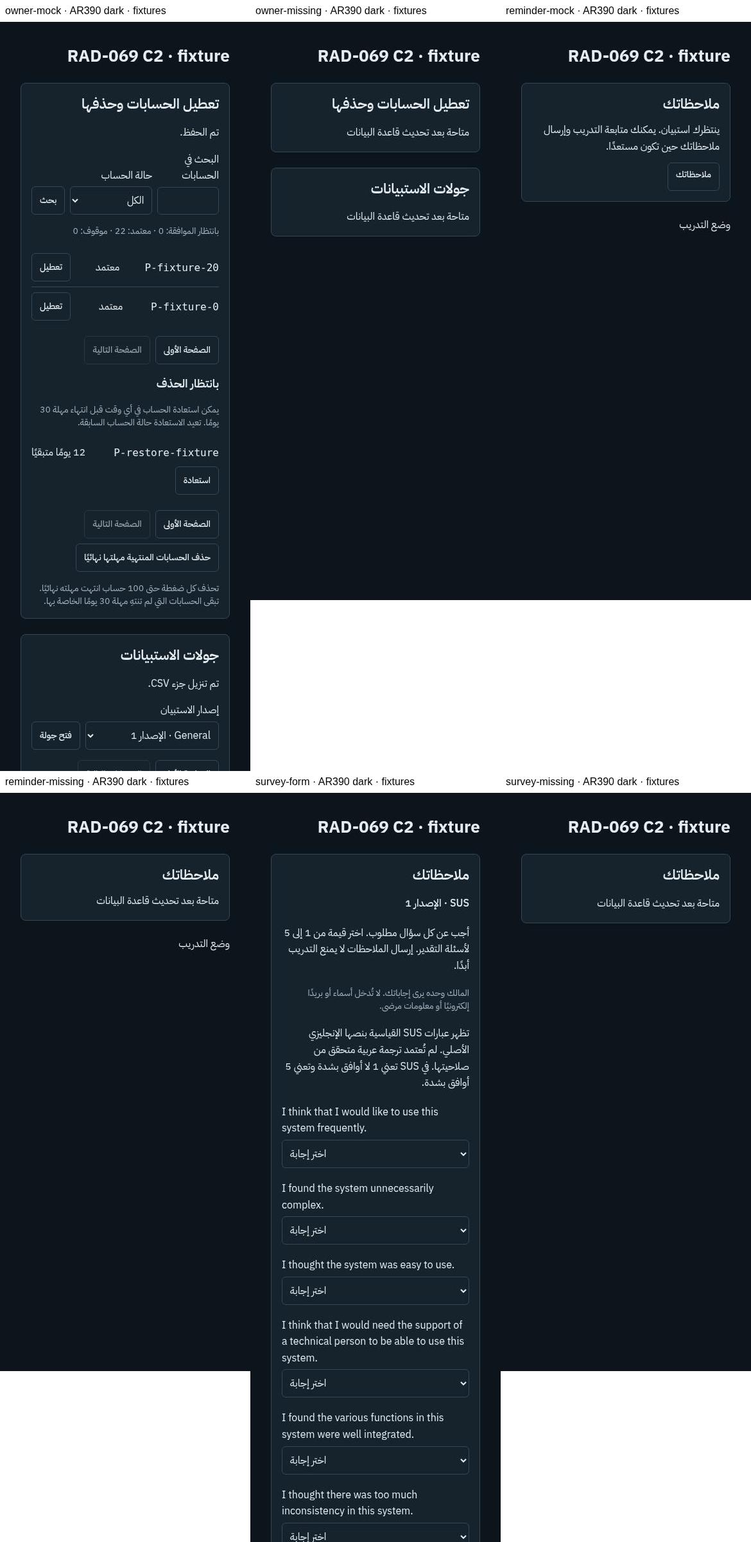
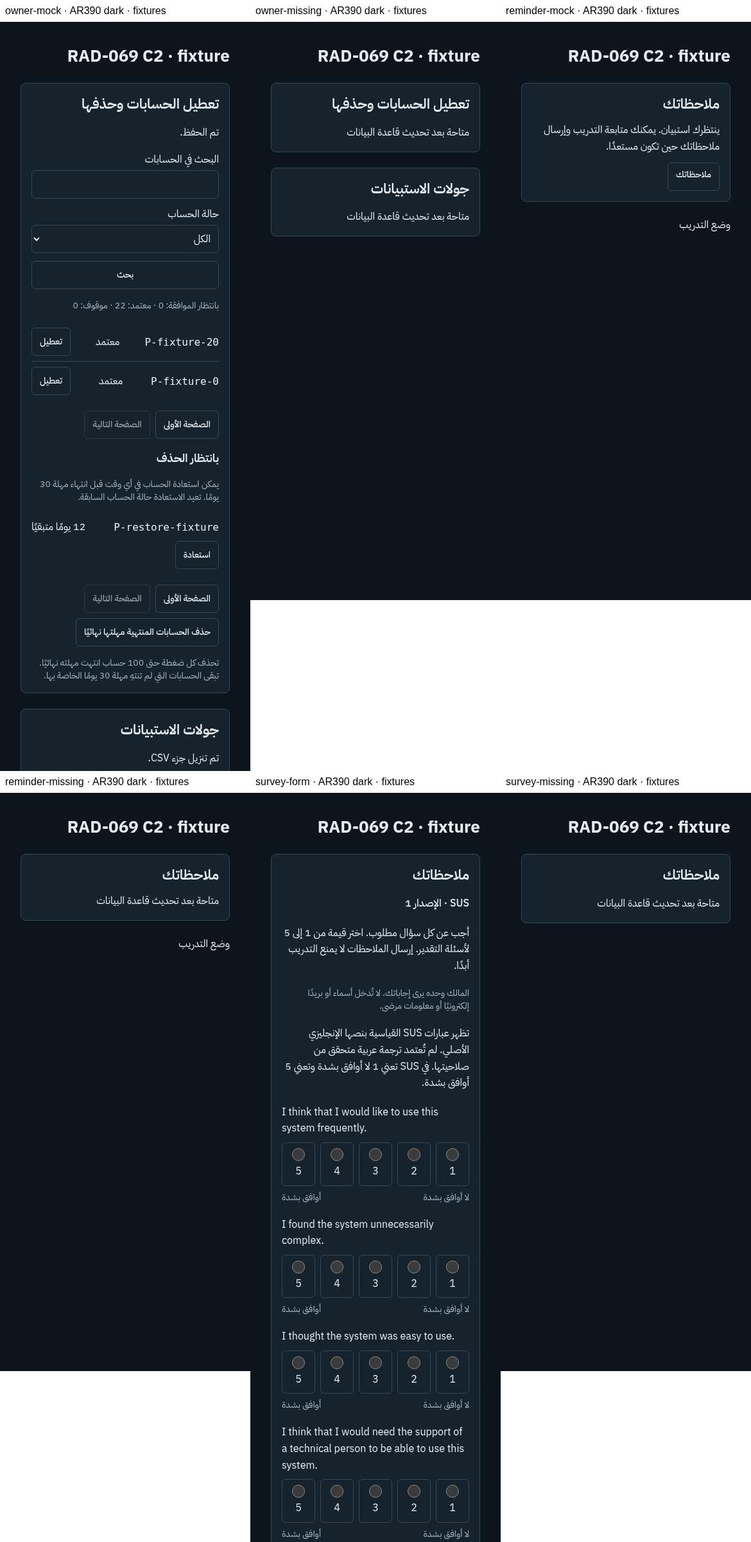
ui(pilot): polish deferred C2 search and survey radios (RAD-076 item 3)

diff --git a/src/features/pilot/ParticipantSurvey.tsx b/src/features/pilot/ParticipantSurvey.tsx
@@ -41,9 +41,21 @@ function SurveyForm({adapter,pending}:{adapter:C2Adapter;pending:Pending}) {
   {pending.definition.questions.map(q=>{
    const general=pending.survey_type==='General'&&pending.version===1&&['rating','liked','improve','bug'].includes(q.id);
    const label=general?t(`general.${q.id}`):q.label;
-   return <div key={q.id} lang={general?locale:pending.definition.locale} dir={general?(locale==='ar'?'rtl':'ltr'):english?'ltr':'auto'}>
+   const language=general?locale:pending.definition.locale;
+   const direction=general?(locale==='ar'?'rtl':'ltr'):english?'ltr':'auto';
+   if(q.kind==='rating')return <fieldset key={q.id} disabled={busy} lang={locale} dir={locale==='ar'?'rtl':'ltr'} className="min-w-0 space-y-2">
+    <legend className="mb-2 block w-full" lang={language} dir={direction}>{label}{q.optional?` (${t('optional')})`:''}</legend>
+    <div className="grid grid-cols-5 gap-2">
+     {[1,2,3,4,5].map(n=><label key={n} className="flex min-h-14 min-w-0 cursor-pointer flex-col items-center justify-center gap-1 rounded-md border border-line p-2 has-checked:border-signal has-checked:bg-paper focus-within:outline-2 focus-within:outline-offset-2 focus-within:outline-signal">
+      <input type="radio" name={`c2-q-${q.id}`} value={n} required={!q.optional} checked={answers[q.id]===n} aria-label={t(`scale.${n}`)} className="size-5 accent-signal" onChange={()=>setAnswers(a=>({...a,[q.id]:n}))}/>
+      <span aria-hidden="true">{n}</span>
+     </label>)}
+    </div>
+    <div className="flex justify-between gap-4 text-sm text-muted" data-testid="c2-scale-endpoints"><span className="max-w-[45%]">{t('scaleStart')}</span><span className="max-w-[45%]">{t('scaleEnd')}</span></div>
+   </fieldset>;
+   return <div key={q.id} lang={language} dir={direction}>
     <label className="block" htmlFor={`c2-q-${q.id}`}>{label}{q.optional?` (${t('optional')})`:''}</label>
-    {q.kind==='rating'?<select id={`c2-q-${q.id}`} required={!q.optional} className={c2Field} value={answers[q.id]??''} disabled={busy} onChange={e=>setAnswers(a=>{const next={...a};if(e.target.value)next[q.id]=Number(e.target.value);else delete next[q.id];return next;})}><option value="">{t('choose')}</option>{[1,2,3,4,5].map(n=><option key={n} value={n}>{t(pending.definition.scoring==='sus'?`scale.${n}`:`rating.${n}`)}</option>)}</select>:<textarea id={`c2-q-${q.id}`} required={!q.optional} maxLength={1000} rows={3} dir="auto" className={c2Field} value={answers[q.id]??''} disabled={busy} onChange={e=>setAnswers(a=>({...a,[q.id]:e.target.value}))}/>}
+    <textarea id={`c2-q-${q.id}`} required={!q.optional} maxLength={1000} rows={3} dir="auto" className={c2Field} value={answers[q.id]??''} disabled={busy} onChange={e=>setAnswers(a=>({...a,[q.id]:e.target.value}))}/>
    </div>;
   })}
   {pending.definition.citation&&<p lang="en" dir="ltr" className="break-words text-sm text-muted">{pending.definition.citation}</p>}

diff --git a/src/features/pilot/OwnerDeletion.tsx b/src/features/pilot/OwnerDeletion.tsx
@@ -31,9 +31,9 @@ export function OwnerDeletion({adapter,ownerId,onChanged}:{adapter:C2Adapter;own
   {(!data||unavailable||error)&&<p role={error?'alert':'status'}>{t(!data?'loading':unavailable?'unavailable':'error')}</p>}
   {notice&&<p role={notice==='error'?'alert':'status'}>{t(notice)}</p>}
   {!unavailable&&!error&&directory&&pending&&<>
-   <form className="flex flex-wrap items-end gap-2" onSubmit={e=>{e.preventDefault();setSearch(draft.trim());setPosition(C2_FIRST);setConfirm(null);setAgreed(false);}}>
-    <label className="min-w-0 flex-1">{t('search')}<input maxLength={100} className={c2Field} value={draft} onChange={e=>setDraft(e.target.value)}/></label>
-    <label>{t('status')}<select className={c2Field} value={status} onChange={e=>{setStatus(e.target.value);setPosition(C2_FIRST);setConfirm(null);setAgreed(false);}}><option value="">{t('all')}</option>{(['pending','approved','suspended'] as const).map(s=><option key={s} value={s}>{t(s)}</option>)}</select></label>
+   <form className="grid gap-3 sm:grid-cols-[minmax(0,1fr)_minmax(0,1fr)_auto] sm:items-end" onSubmit={e=>{e.preventDefault();setSearch(draft.trim());setPosition(C2_FIRST);setConfirm(null);setAgreed(false);}}>
+    <label className="block min-w-0">{t('search')}<input maxLength={100} className={c2Field} value={draft} onChange={e=>setDraft(e.target.value)}/></label>
+    <label className="block min-w-0">{t('status')}<select className={c2Field} value={status} onChange={e=>{setStatus(e.target.value);setPosition(C2_FIRST);setConfirm(null);setAgreed(false);}}><option value="">{t('all')}</option>{(['pending','approved','suspended'] as const).map(s=><option key={s} value={s}>{t(s)}</option>)}</select></label>
     <button className={btn} disabled={busy}>{t('searchAction')}</button>
    </form>
    <p className="text-sm text-muted">{(['pending','approved','suspended'] as const).map(s=>`${t(s)}: ${directory.counts[s]}`).join(' · ')}</p>

diff --git a/docs/RAD-076_REPORT_2026-10-24.md b/docs/RAD-076_REPORT_2026-10-24.md
@@ -2,17 +2,17 @@
 
 ## 1 الانحرافات والميزانية
 
-الهدف: تنظيف محدود للاختبار وهندسة المكتبة وواجهة C2 غير الموصولة. الميزانية الدقيقة 12 ملفًا: اختبار F؛ اختبار حوض جديد؛ OwnerDeletion وParticipantSurvey؛ رسائل EN/AR؛ سكربت تدقيق C2؛ JPEG المراجعة؛ DECISIONS؛ project-status؛ HANDOFF؛ هذا التقرير. لا تغيير لوحدة runtime مشتركة. وافق المالك على استثناء تدقيق C2 المحدد وعلى تثبيت فروق الحوض المقصودة؛ لا توسيع لبقية التوقعات.
+الهدف: تنظيف محدود للاختبار وهندسة المكتبة وواجهة C2 غير الموصولة. الميزانية الدقيقة 12 ملفًا: اختبار F؛ اختبار حوض جديد؛ OwnerDeletion وParticipantSurvey؛ رسائل EN/AR؛ سكربت تدقيق C2؛ JPEG المراجعة؛ DECISIONS؛ project-status؛ HANDOFF؛ هذا التقرير. الملفات بالضبط: `src/features/assess/f-service-check.test.ts`، `src/features/platform/pelvis-geometry-drift.test.ts`، `src/features/pilot/OwnerDeletion.tsx`، `src/features/pilot/ParticipantSurvey.tsx`، `messages/en.json`، `messages/ar.json`، `scripts/qa/rad-069c2-audit.mjs`، `docs/review/rad069c2-ui.jpg`، `docs/DECISIONS.md`، `docs/project-status.md`، `docs/HANDOFF.md`، وهذا التقرير. لا تغيير لوحدة runtime مشتركة. وافق المالك على استثناء تدقيق C2 المحدد وعلى تثبيت فروق الحوض المقصودة؛ لا توسيع لبقية التوقعات.
 
 ## 2 المنجز والمتروك
 
-جارٍ التنفيذ على ثلاث دفعات مستقلة. المشاهد والصور والثيم والتقييم وSQL والمخطط والشهادة خارج النطاق.
+نُفذت ثلاث دفعات مستقلة: تثبيت اختبار F، وحارس هندسة الحوض، وصقل C2. المشاهد والصور والثيم والتقييم وSQL والمخطط والشهادة خارج النطاق.
 
 ## 3 بحسب المهمة
 
 - البند1: مصدر التصادم `at` في مخرجات PASS وSTOP، السطران99 و103 من سكربت F. إعادة إثبات بساعة `2026-10-24T12:00:01.250Z` أخرجت STOP يحوي `1.25` داخل الطابع الزمني. الحل حقن Date ثابتة في VM الاختبار مع بقاء تحليل التواريخ الصريحة. كل التوقعات والعينات كما هي؛ استثناء sentinel غير مستخدم.
 - البند2: wingR وsacrum متطابقان؛ ringR والفخذ يتضمنان فروق B2b المعتمدة. يحرس الاختبار المشترك والانعكاس ويثبت قائمتي الفخذ وكل نقاط الحلقة على الجانبين دون تعديلهما.
-- البند3: تجهيز radio groups وتحسين البحث وتحديث التدقيق وفق الإذن المحدد؛ لا وصل حي.
+- البند3: استبدلت select بـfieldset/legend وخمس radios أصلية لكل سؤال، بأهداف لمس ≥44px في صف واحد وأسهم لوحة المفاتيح وطرفَي Strongly disagree/Strongly agree بالعربية والإنجليزية. حقول البحث مكدسة عند390 وبصف عند العرض الكبير. نصوص SUS الإنجليزية الأصلية باقية؛ في AR ترتيب controls من اليمين إلى اليسار. عقد submit وقيم الأجوبة كما هي؛ لا وصل حي.
 
 ## 4 المشترك وScale
 
@@ -27,12 +27,39 @@
 - docs:context أكد دمج #127 و#128؛ بدأ الفرع من origin/main بعد fetch. status:summary لم يجد RAD-076، فأضيفت in_progress.
 - فحص graphics --check قبل التعديل: مطابق بايتًا.
 - البند1: typecheck ناجح؛ lint بلا أخطاء مع تحذيرين سابقين في simulator-layout-audit.mjs. اختبار F نجح20/20 تشغيلًا متتاليًا (24 اختبارًا في كل تشغيل، 480/480) دون retries أو skips أو تعديل timeout. سبقها فشل typecheck بسبب dependencies ناقصة، ثم npm ci من lockfile بلا تغيير ملفات dependency.
-- البند2: اختبارا الحارس ناجحان، مع اختبارات رسومات المكتبة القائمة؛ graphics --check مطابق بايتًا. يقرأ الحارس AST للمصدرين ولا يغيرهما.
-- بقية نتائج QA تُستكمل عند انتهاء دفعتها؛ لا نجاح CI أو نشر أو فحص هاتف مفترض.
+- البند2: اختبارا الحارس ناجحان، مع اختبارات رسومات المكتبة القائمة؛ graphics --check مطابق بايتًا. يقرأ الحارس AST للمصدرين ولا يغيرهما. أول تشغيل للحارس كشف التقاط مصفوفة callback أيضًا؛ قُصر القارئ على مصفوفات النقاط المتداخلة ثم نجح، دون تعديل توقع قديم.
+- البند3: `node scripts/qa/rad-069c2-audit.mjs` نجح:1356 فحصًا و73 تدقيق axe بلا violations. مصفوفة EN/AR ×390/1440 ×dark/light ×missing/mock باقية؛ أضيفت General في الأبعاد الثمانية مع حالات الإرسال القديمة. قواعد wcag2a/wcag2aa/wcag21a/wcag21aa كما هي.
+- قبل تحرير controls شُغل harness بالـselect الأصلية والتُقطت JSON للـSUS وGeneral في EN وAR محليًا؛ استُخدمت السلاسل الأصلية حرفيًا للمقارنة دون ترتيب أو normalization. SUS: q1…q10 بقيمة4؛ General: rating=4 ونص Fixture feedback only في liked/improve/bug؛ ترتيب المفاتيح والأنواع وid كما هي.
+- لوحة [المراجعة](review/rad069c2-ui.jpg) استُبدلت وفُحصت بصريًا:170018 بايتًا، وهي مجموع صور هذه الدفعة، دون5MB. الصور الكاملة محلية فقط؛ ليست فحص هاتف أو نشرًا.
+- docs:check مع base origin/main: ناجح بلا أخطاء أو review warnings؛ status:check مع base origin/main وrequire-previous: ناجح. HANDOFF22 سطرًا. رُفع وقت الحالة عن الوقت المستقبلي الموجود أصلًا في main للحفاظ على التسلسل، دون تغيير المهام الأخرى.
[1 lines of base64/hex data omitted]
+- في النهاية شُغّل `npm run check` كاملًا مرة واحدة:179 ملفًا و2691 اختبارًا ناجحًا، مع typecheck ناجح وlint بلا أخطاء (التحذيران السابقان فقط). `npm run build` ناجح مرة واحدة. لم تُشغّل qa:golden أو qa:characterise أو أي أمر لتحديث fixtures؛ لا نجاح CI مفترض.
+- قبل كل push أُعيد typecheck وlint والاختبارات ذات الصلة؛ الدفعة الأخيرة يغطيها check الكامل. كل بند في commit وpush مستقلين؛ التسليم Draft فقط. `git diff --check` ناجح.
+
+### تغييرات التدقيق: القديم → الجديد
+
+| الموضع | القديم → الجديد |
+|---|---|
+| تعبئة SUS | `form select` ثم selectOption('4') ← اختيار radio بقيمة4 داخل كل fieldset، بالقيم نفسها وبترتيب الأسئلة نفسه |
+| نصوص SUS | `form label` ← `form fieldset legend`؛ نفس شرط الطول10 ونفس المساواة الحرفية مع sus.questions[i].label ونفس ترتيبها، بلا تخفيف |
+| تعبئة General | select بقيمة4 مع textarea ← radio بقيمة4 مع نفس تعبئة textarea؛ أضيف تحقق legend مطابق لـgeneral.rating حرفيًا |
+
+الفحوص الجديدة فقط، دون حذف أي فحص آخر:
+
+1. fieldset لكل rating:10 لـSUS و1 لـGeneral؛ legend واحدة لكل fieldset وخمس radios.
+2. name واحدة غير فارغة لكل مجموعة ومختلفة بين الأسئلة؛ values هي1…5 وrequired محفوظة.
+3. نصا الطرفين مطابقان لرسائل EN/AR؛ اتجاه المجموعة مطابق للغة وموقع الطرفين يتبع ترتيب السلم.
+4. أهداف اللمس ≥44×44px في صف واحد؛ x تصاعدية في EN وتنازلية في AR.
+5. ArrowDown يحدد وينقل التركيز للخيار التالي وArrowUp يعيده؛ ثم اختيار4.
+6. JSON المرسل مطابق بايتًا للـbaseline في SUS وGeneral؛ فحص response-id-bound السابق لم يتغير.
+7. حقلا البحث لهما labelان، وكل label على سطر واحد في كل أبعاد التدقيق.
+8. General في EN/AR ×390/1440 ×dark/light مع axe والقيم ونفي أخطاء الصفحة والشبكة؛ حالات missing/mock الأصلية وكل فحوصها باقية.
+
+مقارنة نصية مع origin/main أثبتت بقاء الأسطر23 التي تحمل assertions الأصلية حرفيًا؛ التبديل المأذون للـselector وعملية التعبئة فقط. لا تغيير لأي assertion آخر أو axe rule أو حجم صفحات أو حالات رفض أو CSV أو منع retry/network. الـsentinel وقائمة not.toContain كما هما.
 
 ## 7 المفتوح
 
-تنتظر RAD-076 إكمال الدفعات والتحقق ثم مراجعة المسودة. C2 غير موصولة؛ DB day ومراجعة الهاتف بيد المالك ضمن مهامها السابقة، ولا تنفيذ لها هنا.
+RAD-076 review بانتظار مراجعة المالك؛ لا done قبل دمج العمل وتحققه المناسب. C2 غير موصولة؛ DB day ومراجعة الهاتف بيد المالك ضمن مهامها السابقة، ولا تنفيذ لها هنا.
 
 ## 8 قائمة المالك والمتابعة
 

diff --git a/docs/HANDOFF.md b/docs/HANDOFF.md
@@ -1,22 +1,22 @@
-# التسليم الحالي — RAD-069 C2، تجهيز المرحلة2
+# التسليم الحالي — RAD-076 housekeeping A
 
 ## نقطة البداية
-اقرأ [AGENTS](../AGENTS.md)، ثم docs:context وstatus:summary -- --id RAD-069. [project-status](project-status.md) مصدر الحالة الوحيد؛ checkout نفسه، بلا worktree/subagents أو polling أو preview، وDraft PR فقط.
+اقرأ [AGENTS](../AGENTS.md)، ثم docs:context وstatus:summary -- --id RAD-076؛ [project-status](project-status.md) مصدر الحالة الوحيد. [التقرير](RAD-076_REPORT_2026-10-24.md) يحفظ التحقق وحدوده، و[القرار](DECISIONS.md#rad076-housekeeping-owner-2026-10-24) يحدد الاستثناءات.
 
 ## ملخص الحالة
-- **الاتجاه الحالي:** C1 وC2 Phase 1 مدموجتان؛ واجهات Phase 2 محقونة غير موصولة حاليًا، وفق [تصحيح المالك](DECISIONS.md#rad069c2-phase2-deferred-ui-2026-10-24) و[التقرير](RAD-069C2_PHASE2_REPORT_2026-10-24.md).
-- **ينتظر المالك:** مراجعة C2 وDB day المنسق؛ مراجعات الهاتف A/B/C1 باقية. RAD-044 مغلقة بإثباته السابق، فلا طلب بيانات. SUS العربية تحتاج citation منشورًا validated. Assess والمشرف خارج النطاق.
-- **ينتظر مراجِعًا:** لا مراجعة طبية جديدة؛ حدود RAD-019 وO108 والمصادر محفوظة. لا استئناف Assess إلا بأمر صريح مستقل بعد C2 وDB day.
-- **مرجع Git:** docs:context للحالة الراهنة؛ [التقرير §6](RAD-069C2_PHASE2_REPORT_2026-10-24.md#6-التحقق) للفحوص وحدودها، بلا نجاح CI أو نشر مفترض.
-- **مخاطر معلنة:** كل C2 غير mounted وRPC معزولة؛ الحارس وbrowserBoundaries وrequired والشهادة ثابتة. الحذف كامل بعد30يومًا عبر CASCADE وقد يُرفض ذريًا بقيود Assess. JWT السابق ينتهي بعمره والنسخ مستقلة. النص الحر قد يحمل هوية.
+- **الاتجاه الحالي:** تنظيف RAD-076 للمراجعة: ساعة اختبار F ثابتة، حارس هندسة الحوض وفروق B2b، وصقل C2 غير الموصولة. توقف بعد التسليم؛ لا عمل تالٍ مفوض تلقائيًا.
+- **ينتظر المالك:** مراجعة المسودة ولوحة C2؛ مراجعات الهاتف A/B/C1 باقية. C2 وDB day والموافقة والإطلاق ضمن [المسار السابق](PILOT_SUPABASE_SETUP.md#c2-phase2-wiring). SUS العربية تحتاج citation منشورًا validated؛ Assess يتطلب أمر resume Assess مستقلًا بعد C2 وDB day. RAD-044 مغلقة بتحققه السابق.
+- **ينتظر مراجِعًا:** لا مراجعة طبية جديدة؛ حدود RAD-019 وO108 والمصادر والتراخيص باقية في مهامها.
+- **مرجع Git:** docs:context لحالة الفرع والقاعدة وPR؛ [التقرير §6](RAD-076_REPORT_2026-10-24.md#6-التحقق) للتحقق المحلي وحدوده. لا نجاح CI أو نشر مفترض.
+- **مخاطر معلنة:** C2 محقونة فقط بلا وصل routes أو RPC حي؛ browserBoundaries والشهادة وSQL ثابتة. فروق الحوض المقصودة مثبتة على الجانبين وتحتاج مراجعة عند أي تغيير لاحق؛ لا تعديل للمشهد. JWT السابق ونسخ المزوّد وحدود CASCADE كما في قرار C2.
 
 ## الخطوة التالية والعوائق
-- توقف بعد تسليم تجهيز Phase 2؛ التالي مراجعة المالك ثم DB day مستقل. أدلة check/build وharness EN/AR والثيمين وحدودها في التقرير §6. لا صفحة feedback أو owner C2 حية الآن، ولا عمل برمجي جديد قبل توجيه المالك.
-- [خطوات الوصل الدقيقة](PILOT_SUPABASE_SETUP.md#c2-phase2-wiring) ليوم القاعدة فقط: C1 ثم C2، checks، required وحدود الوصل، شهادة جديدة واحدة، إطلاق consent/الشروط والمزايا معًا. لا SQL أو attestation أو consent bump الآن.
-- لا تغيير لحارس المخطط أو توقع اختبار قديم. كل الاستدعاءات الأربع في c2-contract المعزولة أصلًا، ولا حاجة لتوسيع serverModules.
+- مراجعة المالك فقط؛ لا ready أو merge أو auto-merge. لا subscribe/poll أو hosted preview؛ المالك يفحص الهاتف.
+- DB day ليس مفوضًا هنا: C1 ثم C2، checks كلها، إطلاق الموافقة والمزايا معًا، ثم required وشهادة واحدة جديدة وفق المسار الموثّق؛ لا SQL أو متغيرات أو consent bump الآن.
+- الاستثناء المحدد للتدقيق لا يجيز تغيير توقع آخر؛ sentinel بقي كما هو بعد إصلاح الساعة.
 
 <a id="المتابعة"></a>
 ## الحدود المستمرة
-- لا تغيير للتقييم أو المحاكي أو المشاهد أو الصور أو منطق الثيم أو الرسوم أو hashes أو golden/characterisation؛ لا qa:golden/qa:characterise.
-- القيم provisional؛ لا مصادقة سريرية. Shoulder Y/forearm والفحوص والصور الجديدة مجمدة.
+- لا scoring أو simulator أو scenes أو صور نتيجة أو theme logic أو scene/result hashes أو golden/characterisation؛ لا qa:golden/qa:characterise.
+- القيم provisional داخليًا؛ لا مصادقة سريرية. Shoulder Y/forearm والفحوص والصور الجديدة مجمدة.
 - RAD-072/RAD-075 مغلقتان؛ RAD-073 مستقلة؛ RAD-070/071 مؤجلتان وRAD-057 بعد RAD-062 وRAD-021 بعد التعميم.

diff --git a/docs/project-status.md b/docs/project-status.md
@@ -6,11 +6,11 @@
 
 ## ملخص الحالة الحالية (سرد قصير، يُحدَّث كله في كل جلسة؛ لا يُقرأ آلياً)
 
-- **الاتجاه الحالي:** RAD-076 تنظيف محدود جارٍ؛ C1 وC2 Phase 1 مدموجتان؛ تجهيز واجهات Phase 2 محقونة دون وصل حي، وفق [التصحيح](DECISIONS.md#rad069c2-phase2-deferred-ui-2026-10-24) و[التقرير](RAD-069C2_PHASE2_REPORT_2026-10-24.md).
-- **ينتظر المالك:** مراجعة واجهات C2 ثم DB day والموافقة والإطلاق؛ مراجعات الهاتف A/B/C1 باقية. RAD-044 مغلقة بإثباته. SUS العربية تحتاج citation منشورًا validated؛ Assess بإذن استئناف منفصل.
+- **الاتجاه الحالي:** RAD-076 منفذ للمراجعة: ثبات اختبار F وحارس هندسة الحوض وصقل C2 غير الموصولة، وفق [القرار](DECISIONS.md#rad076-housekeeping-owner-2026-10-24) و[التقرير](RAD-076_REPORT_2026-10-24.md).
+- **ينتظر المالك:** مراجعة مسودة RAD-076 وواجهات C2، ثم DB day والموافقة والإطلاق ضمن مسارها السابق؛ مراجعات الهاتف A/B/C1 باقية. RAD-044 مغلقة بإثباته. SUS العربية تحتاج citation منشورًا validated؛ Assess بإذن استئناف منفصل.
 - **ينتظر مراجِعًا بشريًا:** لا مراجعة طبية جديدة؛ حدود RAD-019 وO108 والمصادر والتراخيص محفوظة في مهامها.
-- **مرجع Git:** docs:context للحالة الراهنة؛ تقرير Phase 2 §6 للتحقق وحدوده، بلا نجاح CI أو نشر مفترض.
-- **مخاطر معلنة:** C1/C2 مؤجلتان، والحارس والشهادة وحدود الاتصال ثابتة؛ الحذف كامل عبر CASCADE بلا retention عام. JWT السابق ينتهي بعمره ونسخ المزوّد مستقلة؛ لا تغيير للتقييم أو الصور أو الثيم. القيم provisional.
+- **مرجع Git:** docs:context للحالة الراهنة؛ تقرير RAD-076 §6 للتحقق وحدوده، بلا نجاح CI أو نشر مفترض.
+- **مخاطر معلنة:** C1/C2 مؤجلتان، والحارس والشهادة وحدود الاتصال ثابتة؛ الحذف كامل عبر CASCADE بلا retention عام. JWT السابق ينتهي بعمره ونسخ المزوّد مستقلة؛ لا تغيير للتقييم أو الصور أو الثيم. فروق الحوض المقصودة مثبتة، والقيم provisional.
 
 ## البيانات الحالية (قابلة للقراءة الآلية)
 
@@ -19,8 +19,8 @@
 {
   "project": "RAD-LAB",
   "format_version": "1.1",
-  "revision": 272,
-  "updated_at": "2026-10-25T02:00:07+00:00",
+  "revision": 273,
+  "updated_at": "2026-10-25T02:00:08+00:00",
   "timezone": "UTC",
   "next_id": "RAD-077",
   "tasks": [
@@ -702,11 +702,11 @@
     {
       "id": "RAD-076",
       "title": "Housekeeping A: ثبات الاختبار وحارس هندسة الحوض وصقل C2",
-      "status": "in_progress",
+      "status": "review",
       "priority": "medium",
-      "description": "جارٍ تثبيت ساعة اختبار F، وإضافة حارس هندسة الحوض مع فروق B2b المقصودة، وصقل C2 غير الموصولة وتدقيقها؛ التسليم مسودة فقط.",
+      "description": "تنظيف RAD-076 منفذ للمراجعة: ساعة F ثابتة، حارس الحوض وفروق B2b مثبتة، وC2 غير الموصولة بصقل البحث وradio groups؛ ينتظر مراجعة المالك للمسودة، بلا وصل حي أو DB day.",
       "source_ref": "docs/RAD-076_REPORT_2026-10-24.md؛ طلب المالك وقراراته 2026-10-24",
-      "waiting_on": "code"
+      "waiting_on": "owner"
     }
   ]
 }

diff --git a/docs/DECISIONS.md b/docs/DECISIONS.md
@@ -672,3 +672,14 @@ Closed question texts and their scope/evidence are retained in the [closed-quest
 تُجهز المكونات بعقود وadapters محقونة، وتُختبر بعينات فقط في harness مستقل. كل استدعاءات RPCs الأربع داخل `c2-contract.ts` المصنفة deferred، بلا import إليها من frontend؛ يمكن تغيير قائمة serverModules في إدخال C2 وحده إن احتاج التنفيذ، لكن بصمة SQL وrequired/checks وattestation والحارس وbrowserBoundaries ثابتة. لا تعديل لتوقع اختبار قديم. يُزال عرض بطاقة الرابط الخارجي فقط، مع حفظ كودها وNEXT_PUBLIC_SURVEY_URL. بقية C2 غير موصولة في الصفحات الحية؛ ملاحظة مالك ساكنة اختيارية وليست شرطًا.
 
 الوصل يوم القاعدة فقط وفق [الخطوات الدقيقة](PILOT_SUPABASE_SETUP.md#c2-phase2-wiring)، مع موافقة ونصوص وإطلاق منسقة؛ لا رفع CONSENT_VERSION الآن. [تقرير المرحلة2](RAD-069C2_PHASE2_REPORT_2026-10-24.md) يحفظ التحقق وحدوده. عند الحاجة لتغيير DB boundary الآن يتوقف العمل ويُسأل المالك؛ رفض الاستثناء لا يُعالج بإخفاء أسماء RPC أو تجاوز تحليل الحارس.
+
+<a id="rad076-housekeeping-owner-2026-10-24"></a>
+### RAD-076 — استثناء التدقيق وحارس فروق B2b، 2026-10-24
+
+**السلطة:** طلب housekeeping A ثم موافقتا المالك الصريحتان في المحادثة بتاريخ2026-10-24؛ [التقرير](RAD-076_REPORT_2026-10-24.md) يحفظ التغييرات والتحقق.
+
+**استثناء S-STD-2 المسمّى: `scripts/qa/rad-069c2-audit.mjs` فقط.** لاستبدال select بالـradio يجوز تبديل تعبئة select باختيار radio، وفحص نصوص SUS العشرة نفسها حرفيًا وبالترتيب نفسه عبر legend بدل form label، ومعاملة سؤال General rating كذلك. تُضاف فحوص fieldset/legend، وخمس radios باسم واحد لكل سؤال، والأسهم باللوحة، وطرفَي السلم EN/AR، وترتيب RTL، ومطابقة JSON المرسل بايتًا `{id, answers}` بالقيم نفسها. كل توقع آخر باقٍ؛ لا حذف أو تخفيف، ولا تغيير مصفوفة EN/AR ×390/1440 ×dark/light ×missing/mock أو قواعد axe. يسرد التقرير كل تغيير قديم ← جديد. هذا إذن محلي لهذه الدفعة ولا يوسع استثناء C2 السابق أو browserBoundaries.
+
+**البند1:** الإذن المشروط بتغيير sentinel في عينة اختبار F وقائمة not.toContain لا يُستخدم إلا عند استحالة تثبيت الوقت، مع بقاء بقية التوقعات. أمكن حقن Date ثابتة في VM؛ لذلك **لم يُستخدم استثناء sentinel ولم يتغير أي توقع**.
+
+**حارس الحوض:** فروق رسم المكتبة عن المشهد مقصودة من [إعادة رسم B2b](#rad069b2b-owner-2026-10-24)، [B2 ثم قبول B3](RAD-069B2B_PHASE_A_REPORT_2026-10-24.md#المرحلة-b2): رأسا الفخذ داخل الحُق. وافق المالك على مساواة wingR وsacrum وكل ringR عدا نقطتين، والتحقق من الانعكاس. تُثبّت قائمتا ringR كاملتين: المشهد `[1335,1760]`/`[1330,1690]` مقابل الأيقونة `[1337,1760]`/`[1337,1690]`؛ وتُثبّت قائمتا femurR كاملتين (10 نقاط بالمشهد و11 بالأيقونة). أي تغيير لاحق على أي جانب يفشل. لا تعديل للمشهد أو designs أو JSON أو بصمة؛ المولد يظل مطابقًا بايتًا.
